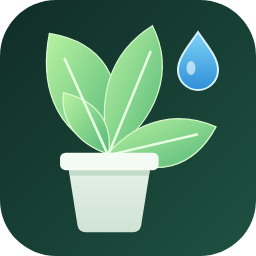
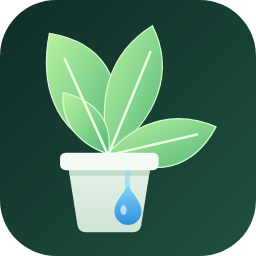
docs: let the emblem's water drop slide down the pot
Claude-Session: https://claude.ai/code/session_013uZs62LriKPCejSMFFtfdA

Changed region(s): [[0.6875, 0.125, 0.875, 0.375], [0.4375, 0.6562, 0.5625, 0.875]]

diff --git a/custom_components/plant_manager/www/plant-manager-card.js b/custom_components/plant_manager/www/plant-manager-card.js
@@ -139,7 +139,7 @@ const plantManagerLanguage = (hass) => hass?.locale?.language || hass?.language;
 const plantManagerNumber = (value, T) => Number(value).toLocaleString(T.locale, { maximumFractionDigits: 1 });
 
 // The Plant Manager emblem, generated from docs/brand/plant-manager-icon.svg.
-const PLANT_MANAGER_EMBLEM = '<svg viewBox="0 0 256 256" aria-hidden="true"><defs><linearGradient id="pm-bg" x1="0" y1="0" x2="1" y2="1"><stop offset="0" stop-color="#102d27"/><stop offset="1" stop-color="#1e5141"/></linearGradient><linearGradient id="pm-pot" x1="0" y1="0" x2="0" y2="1"><stop offset="0" stop-color="#e7f2e8"/><stop offset="1" stop-color="#cfe3d4"/></linearGradient><linearGradient id="pm-drop" x1="0" y1="0" x2="0" y2="1"><stop offset="0" stop-color="#7fd3f7"/><stop offset="1" stop-color="#2e8fd8"/></linearGradient><linearGradient id="pm-leaf" x1="0" y1="0" x2="1" y2="1"><stop offset="0" stop-color="#b9f2a1"/><stop offset="1" stop-color="#55b879"/></linearGradient></defs><rect id="pm-tile" width="256" height="256" rx="56" fill="url(#pm-bg)"/><g id="pm-plant" transform="translate(20.3 -15.9) scale(.795)" fill="url(#pm-leaf)" stroke="#d8f7cb" stroke-width="2"><g transform="translate(111 214) scale(.8) translate(-111 -214)"><path d="M112 212C18 176 4 96 18 24c74 12 132 65 94 188Z"/><path d="M113 214C91 128 111 55 180 12c35 70 10 145-67 202Z"/><path d="M109 214C162 154 224 147 280 171c-35 65-94 83-171 43Z"/><path d="M111 214C58 196 35 158 40 117c53 13 78 47 71 97Z"/><path d="M110 215L42 64M111 214L177 53M112 215L250 183" fill="none" stroke="#e7ffe0" stroke-width="4" stroke-linecap="round"/></g><g stroke="none"><path d="M60 228H164L152 304Q150 312 142 312H82Q74 312 72 304Z" fill="url(#pm-pot)"/><path d="M61 233H163L162 241H62Z" fill="#a9cbb2" opacity=".55"/><rect x="50" y="212" width="124" height="22" rx="7" fill="#f4faf4"/></g></g><g id="pm-drop-mark" transform="translate(198 62)"><path d="M0-30C11-14 20-4 20 8A20 20 0 0 1-20 8C-20-4-11-14 0-30Z" fill="url(#pm-drop)" stroke="#d6f1fd" stroke-width="2"/><ellipse cx="-7" cy="6" rx="4.5" ry="7" fill="#ffffff" opacity=".6"/></g></svg>';
+const PLANT_MANAGER_EMBLEM = '<svg viewBox="0 0 256 256" aria-hidden="true"><defs><linearGradient id="pm-bg" x1="0" y1="0" x2="1" y2="1"><stop offset="0" stop-color="#102d27"/><stop offset="1" stop-color="#1e5141"/></linearGradient><linearGradient id="pm-pot" x1="0" y1="0" x2="0" y2="1"><stop offset="0" stop-color="#e7f2e8"/><stop offset="1" stop-color="#cfe3d4"/></linearGradient><linearGradient id="pm-drop" x1="0" y1="0" x2="0" y2="1"><stop offset="0" stop-color="#7fd3f7"/><stop offset="1" stop-color="#2e8fd8"/></linearGradient><linearGradient id="pm-leaf" x1="0" y1="0" x2="1" y2="1"><stop offset="0" stop-color="#b9f2a1"/><stop offset="1" stop-color="#55b879"/></linearGradient></defs><rect id="pm-tile" width="256" height="256" rx="56" fill="url(#pm-bg)"/><g id="pm-plant" transform="translate(20.3 -15.9) scale(.795)" fill="url(#pm-leaf)" stroke="#d8f7cb" stroke-width="2"><g transform="translate(111 214) scale(.8) translate(-111 -214)"><path d="M112 212C18 176 4 96 18 24c74 12 132 65 94 188Z"/><path d="M113 214C91 128 111 55 180 12c35 70 10 145-67 202Z"/><path d="M109 214C162 154 224 147 280 171c-35 65-94 83-171 43Z"/><path d="M111 214C58 196 35 158 40 117c53 13 78 47 71 97Z"/><path d="M110 215L42 64M111 214L177 53M112 215L250 183" fill="none" stroke="#e7ffe0" stroke-width="4" stroke-linecap="round"/></g><g stroke="none"><path d="M60 228H164L152 304Q150 312 142 312H82Q74 312 72 304Z" fill="url(#pm-pot)"/><path d="M61 233H163L162 241H62Z" fill="#a9cbb2" opacity=".55"/><rect x="50" y="212" width="124" height="22" rx="7" fill="#f4faf4"/></g></g><g id="pm-drop-mark"><path d="M128 173C127 179 127 185 128 191" fill="none" stroke="#7fd3f7" stroke-width="5" stroke-linecap="round" opacity=".55"/><g transform="translate(128 206)"><path d="M0-20C7.5-9.5 13.5-2.5 13.5 5.5A13.5 13.5 0 0 1-13.5 5.5C-13.5-2.5-7.5-9.5 0-20Z" fill="url(#pm-drop)"/><ellipse cx="-4.5" cy="4" rx="3" ry="4.8" fill="#ffffff" opacity=".6"/></g></g></svg>';
 
 const PLANT_MANAGER_STATUSES = {
   needs_water: { tone: "dry", icon: "mdi:water-alert-outline", order: 0 },

diff --git a/www/plant-manager-card.js b/www/plant-manager-card.js
@@ -139,7 +139,7 @@ const plantManagerLanguage = (hass) => hass?.locale?.language || hass?.language;
 const plantManagerNumber = (value, T) => Number(value).toLocaleString(T.locale, { maximumFractionDigits: 1 });
 
 // The Plant Manager emblem, generated from docs/brand/plant-manager-icon.svg.
-const PLANT_MANAGER_EMBLEM = '<svg viewBox="0 0 256 256" aria-hidden="true"><defs><linearGradient id="pm-bg" x1="0" y1="0" x2="1" y2="1"><stop offset="0" stop-color="#102d27"/><stop offset="1" stop-color="#1e5141"/></linearGradient><linearGradient id="pm-pot" x1="0" y1="0" x2="0" y2="1"><stop offset="0" stop-color="#e7f2e8"/><stop offset="1" stop-color="#cfe3d4"/></linearGradient><linearGradient id="pm-drop" x1="0" y1="0" x2="0" y2="1"><stop offset="0" stop-color="#7fd3f7"/><stop offset="1" stop-color="#2e8fd8"/></linearGradient><linearGradient id="pm-leaf" x1="0" y1="0" x2="1" y2="1"><stop offset="0" stop-color="#b9f2a1"/><stop offset="1" stop-color="#55b879"/></linearGradient></defs><rect id="pm-tile" width="256" height="256" rx="56" fill="url(#pm-bg)"/><g id="pm-plant" transform="translate(20.3 -15.9) scale(.795)" fill="url(#pm-leaf)" stroke="#d8f7cb" stroke-width="2"><g transform="translate(111 214) scale(.8) translate(-111 -214)"><path d="M112 212C18 176 4 96 18 24c74 12 132 65 94 188Z"/><path d="M113 214C91 128 111 55 180 12c35 70 10 145-67 202Z"/><path d="M109 214C162 154 224 147 280 171c-35 65-94 83-171 43Z"/><path d="M111 214C58 196 35 158 40 117c53 13 78 47 71 97Z"/><path d="M110 215L42 64M111 214L177 53M112 215L250 183" fill="none" stroke="#e7ffe0" stroke-width="4" stroke-linecap="round"/></g><g stroke="none"><path d="M60 228H164L152 304Q150 312 142 312H82Q74 312 72 304Z" fill="url(#pm-pot)"/><path d="M61 233H163L162 241H62Z" fill="#a9cbb2" opacity=".55"/><rect x="50" y="212" width="124" height="22" rx="7" fill="#f4faf4"/></g></g><g id="pm-drop-mark" transform="translate(198 62)"><path d="M0-30C11-14 20-4 20 8A20 20 0 0 1-20 8C-20-4-11-14 0-30Z" fill="url(#pm-drop)" stroke="#d6f1fd" stroke-width="2"/><ellipse cx="-7" cy="6" rx="4.5" ry="7" fill="#ffffff" opacity=".6"/></g></svg>';
+const PLANT_MANAGER_EMBLEM = '<svg viewBox="0 0 256 256" aria-hidden="true"><defs><linearGradient id="pm-bg" x1="0" y1="0" x2="1" y2="1"><stop offset="0" stop-color="#102d27"/><stop offset="1" stop-color="#1e5141"/></linearGradient><linearGradient id="pm-pot" x1="0" y1="0" x2="0" y2="1"><stop offset="0" stop-color="#e7f2e8"/><stop offset="1" stop-color="#cfe3d4"/></linearGradient><linearGradient id="pm-drop" x1="0" y1="0" x2="0" y2="1"><stop offset="0" stop-color="#7fd3f7"/><stop offset="1" stop-color="#2e8fd8"/></linearGradient><linearGradient id="pm-leaf" x1="0" y1="0" x2="1" y2="1"><stop offset="0" stop-color="#b9f2a1"/><stop offset="1" stop-color="#55b879"/></linearGradient></defs><rect id="pm-tile" width="256" height="256" rx="56" fill="url(#pm-bg)"/><g id="pm-plant" transform="translate(20.3 -15.9) scale(.795)" fill="url(#pm-leaf)" stroke="#d8f7cb" stroke-width="2"><g transform="translate(111 214) scale(.8) translate(-111 -214)"><path d="M112 212C18 176 4 96 18 24c74 12 132 65 94 188Z"/><path d="M113 214C91 128 111 55 180 12c35 70 10 145-67 202Z"/><path d="M109 214C162 154 224 147 280 171c-35 65-94 83-171 43Z"/><path d="M111 214C58 196 35 158 40 117c53 13 78 47 71 97Z"/><path d="M110 215L42 64M111 214L177 53M112 215L250 183" fill="none" stroke="#e7ffe0" stroke-width="4" stroke-linecap="round"/></g><g stroke="none"><path d="M60 228H164L152 304Q150 312 142 312H82Q74 312 72 304Z" fill="url(#pm-pot)"/><path d="M61 233H163L162 241H62Z" fill="#a9cbb2" opacity=".55"/><rect x="50" y="212" width="124" height="22" rx="7" fill="#f4faf4"/></g></g><g id="pm-drop-mark"><path d="M128 173C127 179 127 185 128 191" fill="none" stroke="#7fd3f7" stroke-width="5" stroke-linecap="round" opacity=".55"/><g transform="translate(128 206)"><path d="M0-20C7.5-9.5 13.5-2.5 13.5 5.5A13.5 13.5 0 0 1-13.5 5.5C-13.5-2.5-7.5-9.5 0-20Z" fill="url(#pm-drop)"/><ellipse cx="-4.5" cy="4" rx="3" ry="4.8" fill="#ffffff" opacity=".6"/></g></g></svg>';
 
 const PLANT_MANAGER_STATUSES = {
   needs_water: { tone: "dry", icon: "mdi:water-alert-outline", order: 0 },
